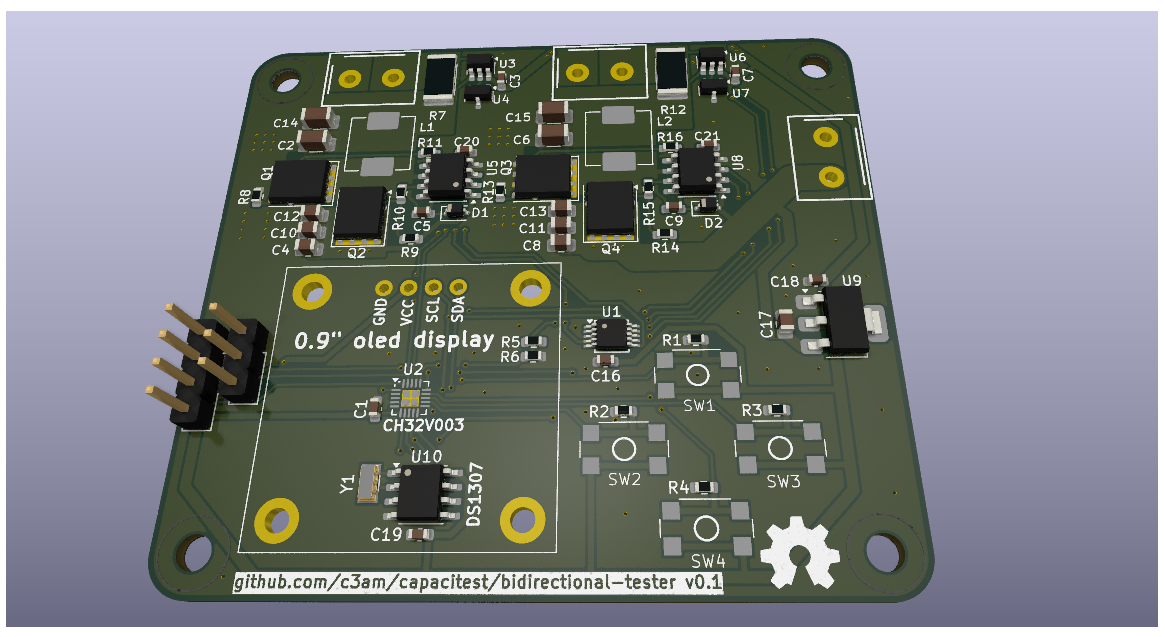
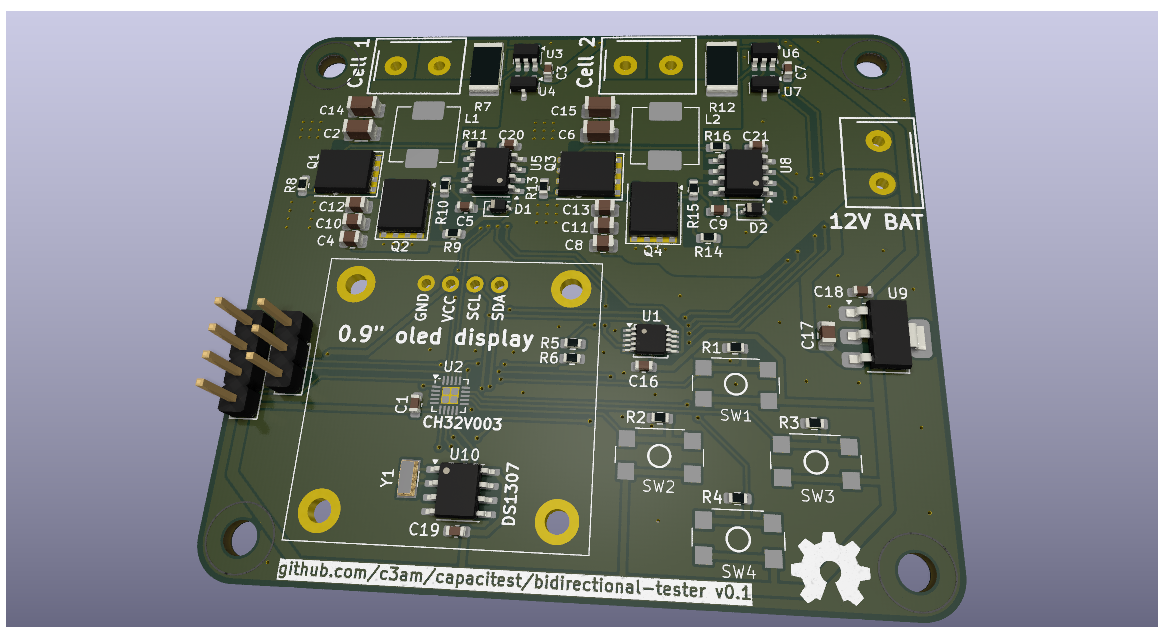
added silkscreen screw terminal descriptions

Changed region(s): [[0.1236, 0.0298, 0.8343, 0.9843]]

diff --git a/README.md b/README.md
@@ -28,6 +28,6 @@ This is the newer version, which uses bidirectional buck-boost converters for ch
 | assemble board                | [not started] |
 | test board/write code         | [not started] |
 | if not working, repeat        |               |
-| finalize code and put online  | [not started  |
+| finalize code and put online  | [not started] |
 
 (last updated: 2025-05-08)
